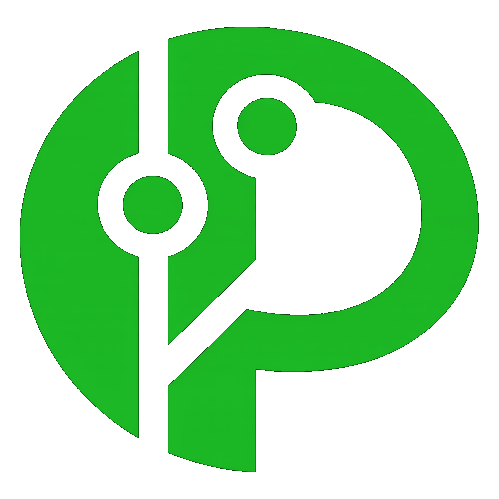
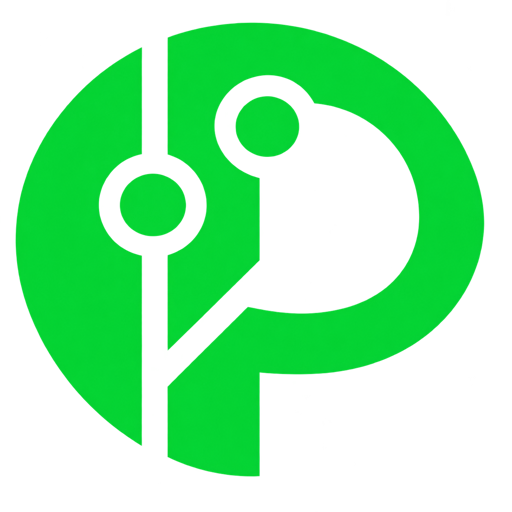
Deploy blog 2026-10-26T00:19:10Z

diff --git a/theme/style.css b/theme/style.css
@@ -149,36 +149,13 @@ button { cursor: pointer; }
   text-decoration: none;
 }
 .brand:hover { color: var(--ink); }
-.brand-mark {
-  position: relative;
-  width: 38px;
-  height: 38px;
-  flex: 0 0 38px;
-  border: 1px solid var(--line-strong);
-  border-radius: 10px;
-  background: linear-gradient(145deg, var(--surface-solid), var(--surface-2));
-  box-shadow: inset 0 0 0 4px var(--signal-soft), 0 0 30px var(--signal-soft);
+.brand-icon {
+  width: 42px;
+  height: 42px;
+  flex: 0 0 42px;
+  object-fit: contain;
+  background: transparent;
 }
-.brand-mark::before,
-.brand-mark::after {
-  content: "";
-  position: absolute;
-  background: var(--line-strong);
-}
-.brand-mark::before { width: 18px; height: 1px; left: 9px; top: 18px; transform: rotate(35deg); }
-.brand-mark::after { width: 1px; height: 18px; left: 18px; top: 9px; transform: rotate(35deg); }
-.brand-mark i {
-  position: absolute;
-  width: 5px;
-  height: 5px;
-  border-radius: 50%;
-  background: var(--signal);
-  box-shadow: 0 0 10px var(--signal);
-}
-.brand-mark i:nth-child(1) { left: 8px; top: 8px; }
-.brand-mark i:nth-child(2) { right: 8px; top: 10px; }
-.brand-mark i:nth-child(3) { left: 11px; bottom: 7px; }
-.brand-mark i:nth-child(4) { right: 7px; bottom: 9px; background: var(--proof); box-shadow: 0 0 10px var(--proof); }
 .brand-copy { display: grid; line-height: 1.05; }
 .brand-title { font-family: var(--font-display); font-size: 15px; font-weight: 850; letter-spacing: .11em; text-transform: uppercase; }
 .brand-tagline { margin-top: 6px; color: var(--muted); font-family: var(--font-mono); font-size: 9px; letter-spacing: .05em; }
@@ -459,7 +436,7 @@ button { cursor: pointer; }
 .side-card h2 { margin: 0 0 11px; color: var(--muted); font-family: var(--font-mono); font-size: 9px; font-weight: 800; letter-spacing: .12em; text-transform: uppercase; }
 .profile-card { position: relative; overflow: hidden; padding-top: 22px; text-align: left; }
 .profile-card::before { content: "SYSTEM IDENTITY"; position: absolute; right: 12px; top: 10px; color: var(--signal); font-family: var(--font-mono); font-size: 7px; letter-spacing: .1em; }
-.profile-card .avatar { width: 62px; height: 62px; margin: 0 0 14px; border: 1px solid var(--line-strong); border-radius: 12px; background: var(--surface-2); object-fit: cover; filter: saturate(.85) contrast(1.05); }
+.profile-card .avatar { width: 68px; height: 68px; margin: 0 0 14px; border: 0; border-radius: 0; background: transparent; object-fit: contain; filter: none; }
 .profile-card h2 { margin: 0 0 7px; color: var(--ink); font-family: var(--font-body); font-size: 17px; letter-spacing: 0; text-transform: none; }
 .profile-card p { margin: 0; color: var(--muted); font-size: 12px; line-height: 1.55; }
 .social-links { display: flex; gap: 14px; margin-top: 13px; font-family: var(--font-mono); font-size: 9px; font-weight: 800; text-transform: uppercase; }

diff --git a/404.html b/404.html
@@ -24,7 +24,7 @@
 <header class="site-header">
   <div class="header-inner">
     <a class="brand" href="/symevo-blog/" aria-label="SYMEVO Journal home">
-      <span class="brand-mark" aria-hidden="true"><i></i><i></i><i></i><i></i></span>
+      <img class="brand-icon" src="/symevo-blog/assets/images/prolog_ai.png" alt="" width="42" height="42">
       <span class="brand-copy">
         <span class="brand-title">SYMEVO Journal</span>
         <span class="brand-tagline">Evidence → derivation → verdict</span>

diff --git a/about/index.html b/about/index.html
@@ -24,7 +24,7 @@
 <header class="site-header">
   <div class="header-inner">
     <a class="brand" href="/symevo-blog/" aria-label="SYMEVO Journal home">
-      <span class="brand-mark" aria-hidden="true"><i></i><i></i><i></i><i></i></span>
+      <img class="brand-icon" src="/symevo-blog/assets/images/prolog_ai.png" alt="" width="42" height="42">
       <span class="brand-copy">
         <span class="brand-title">SYMEVO Journal</span>
         <span class="brand-tagline">Evidence → derivation → verdict</span>

diff --git a/archive/index.html b/archive/index.html
@@ -24,7 +24,7 @@
 <header class="site-header">
   <div class="header-inner">
     <a class="brand" href="/symevo-blog/" aria-label="SYMEVO Journal home">
-      <span class="brand-mark" aria-hidden="true"><i></i><i></i><i></i><i></i></span>
+      <img class="brand-icon" src="/symevo-blog/assets/images/prolog_ai.png" alt="" width="42" height="42">
       <span class="brand-copy">
         <span class="brand-title">SYMEVO Journal</span>
         <span class="brand-tagline">Evidence → derivation → verdict</span>

diff --git a/index.html b/index.html
@@ -24,7 +24,7 @@
 <header class="site-header">
   <div class="header-inner">
     <a class="brand" href="/symevo-blog/" aria-label="SYMEVO Journal home">
-      <span class="brand-mark" aria-hidden="true"><i></i><i></i><i></i><i></i></span>
+      <img class="brand-icon" src="/symevo-blog/assets/images/prolog_ai.png" alt="" width="42" height="42">
       <span class="brand-copy">
         <span class="brand-title">SYMEVO Journal</span>
         <span class="brand-tagline">Evidence → derivation → verdict</span>

diff --git a/labels/agents/index.html b/labels/agents/index.html
@@ -24,7 +24,7 @@
 <header class="site-header">
   <div class="header-inner">
     <a class="brand" href="/symevo-blog/" aria-label="SYMEVO Journal home">
-      <span class="brand-mark" aria-hidden="true"><i></i><i></i><i></i><i></i></span>
+      <img class="brand-icon" src="/symevo-blog/assets/images/prolog_ai.png" alt="" width="42" height="42">
       <span class="brand-copy">
         <span class="brand-title">SYMEVO Journal</span>
         <span class="brand-tagline">Evidence → derivation → verdict</span>

diff --git a/labels/ai/index.html b/labels/ai/index.html
@@ -24,7 +24,7 @@
 <header class="site-header">
   <div class="header-inner">
     <a class="brand" href="/symevo-blog/" aria-label="SYMEVO Journal home">
-      <span class="brand-mark" aria-hidden="true"><i></i><i></i><i></i><i></i></span>
+      <img class="brand-icon" src="/symevo-blog/assets/images/prolog_ai.png" alt="" width="42" height="42">
       <span class="brand-copy">
         <span class="brand-title">SYMEVO Journal</span>
         <span class="brand-tagline">Evidence → derivation → verdict</span>

diff --git a/labels/availability/index.html b/labels/availability/index.html
@@ -24,7 +24,7 @@
 <header class="site-header">
   <div class="header-inner">
     <a class="brand" href="/symevo-blog/" aria-label="SYMEVO Journal home">
-      <span class="brand-mark" aria-hidden="true"><i></i><i></i><i></i><i></i></span>
+      <img class="brand-icon" src="/symevo-blog/assets/images/prolog_ai.png" alt="" width="42" height="42">
       <span class="brand-copy">
         <span class="brand-title">SYMEVO Journal</span>
         <span class="brand-tagline">Evidence → derivation → verdict</span>

diff --git a/labels/blog/index.html b/labels/blog/index.html
@@ -24,7 +24,7 @@
 <header class="site-header">
   <div class="header-inner">
     <a class="brand" href="/symevo-blog/" aria-label="SYMEVO Journal home">
-      <span class="brand-mark" aria-hidden="true"><i></i><i></i><i></i><i></i></span>
+      <img class="brand-icon" src="/symevo-blog/assets/images/prolog_ai.png" alt="" width="42" height="42">
       <span class="brand-copy">
         <span class="brand-title">SYMEVO Journal</span>
         <span class="brand-tagline">Evidence → derivation → verdict</span>

diff --git a/labels/cybercrime/index.html b/labels/cybercrime/index.html
@@ -24,7 +24,7 @@
 <header class="site-header">
   <div class="header-inner">
     <a class="brand" href="/symevo-blog/" aria-label="SYMEVO Journal home">
-      <span class="brand-mark" aria-hidden="true"><i></i><i></i><i></i><i></i></span>
+      <img class="brand-icon" src="/symevo-blog/assets/images/prolog_ai.png" alt="" width="42" height="42">
       <span class="brand-copy">
         <span class="brand-title">SYMEVO Journal</span>
         <span class="brand-tagline">Evidence → derivation → verdict</span>

diff --git a/labels/design/index.html b/labels/design/index.html
@@ -24,7 +24,7 @@
 <header class="site-header">
   <div class="header-inner">
     <a class="brand" href="/symevo-blog/" aria-label="SYMEVO Journal home">
-      <span class="brand-mark" aria-hidden="true"><i></i><i></i><i></i><i></i></span>
+      <img class="brand-icon" src="/symevo-blog/assets/images/prolog_ai.png" alt="" width="42" height="42">
       <span class="brand-copy">
         <span class="brand-title">SYMEVO Journal</span>
         <span class="brand-tagline">Evidence → derivation → verdict</span>

diff --git a/labels/engineering/index.html b/labels/engineering/index.html
@@ -24,7 +24,7 @@
 <header class="site-header">
   <div class="header-inner">
     <a class="brand" href="/symevo-blog/" aria-label="SYMEVO Journal home">
-      <span class="brand-mark" aria-hidden="true"><i></i><i></i><i></i><i></i></span>
+      <img class="brand-icon" src="/symevo-blog/assets/images/prolog_ai.png" alt="" width="42" height="42">
       <span class="brand-copy">
         <span class="brand-title">SYMEVO Journal</span>
         <span class="brand-tagline">Evidence → derivation → verdict</span>
